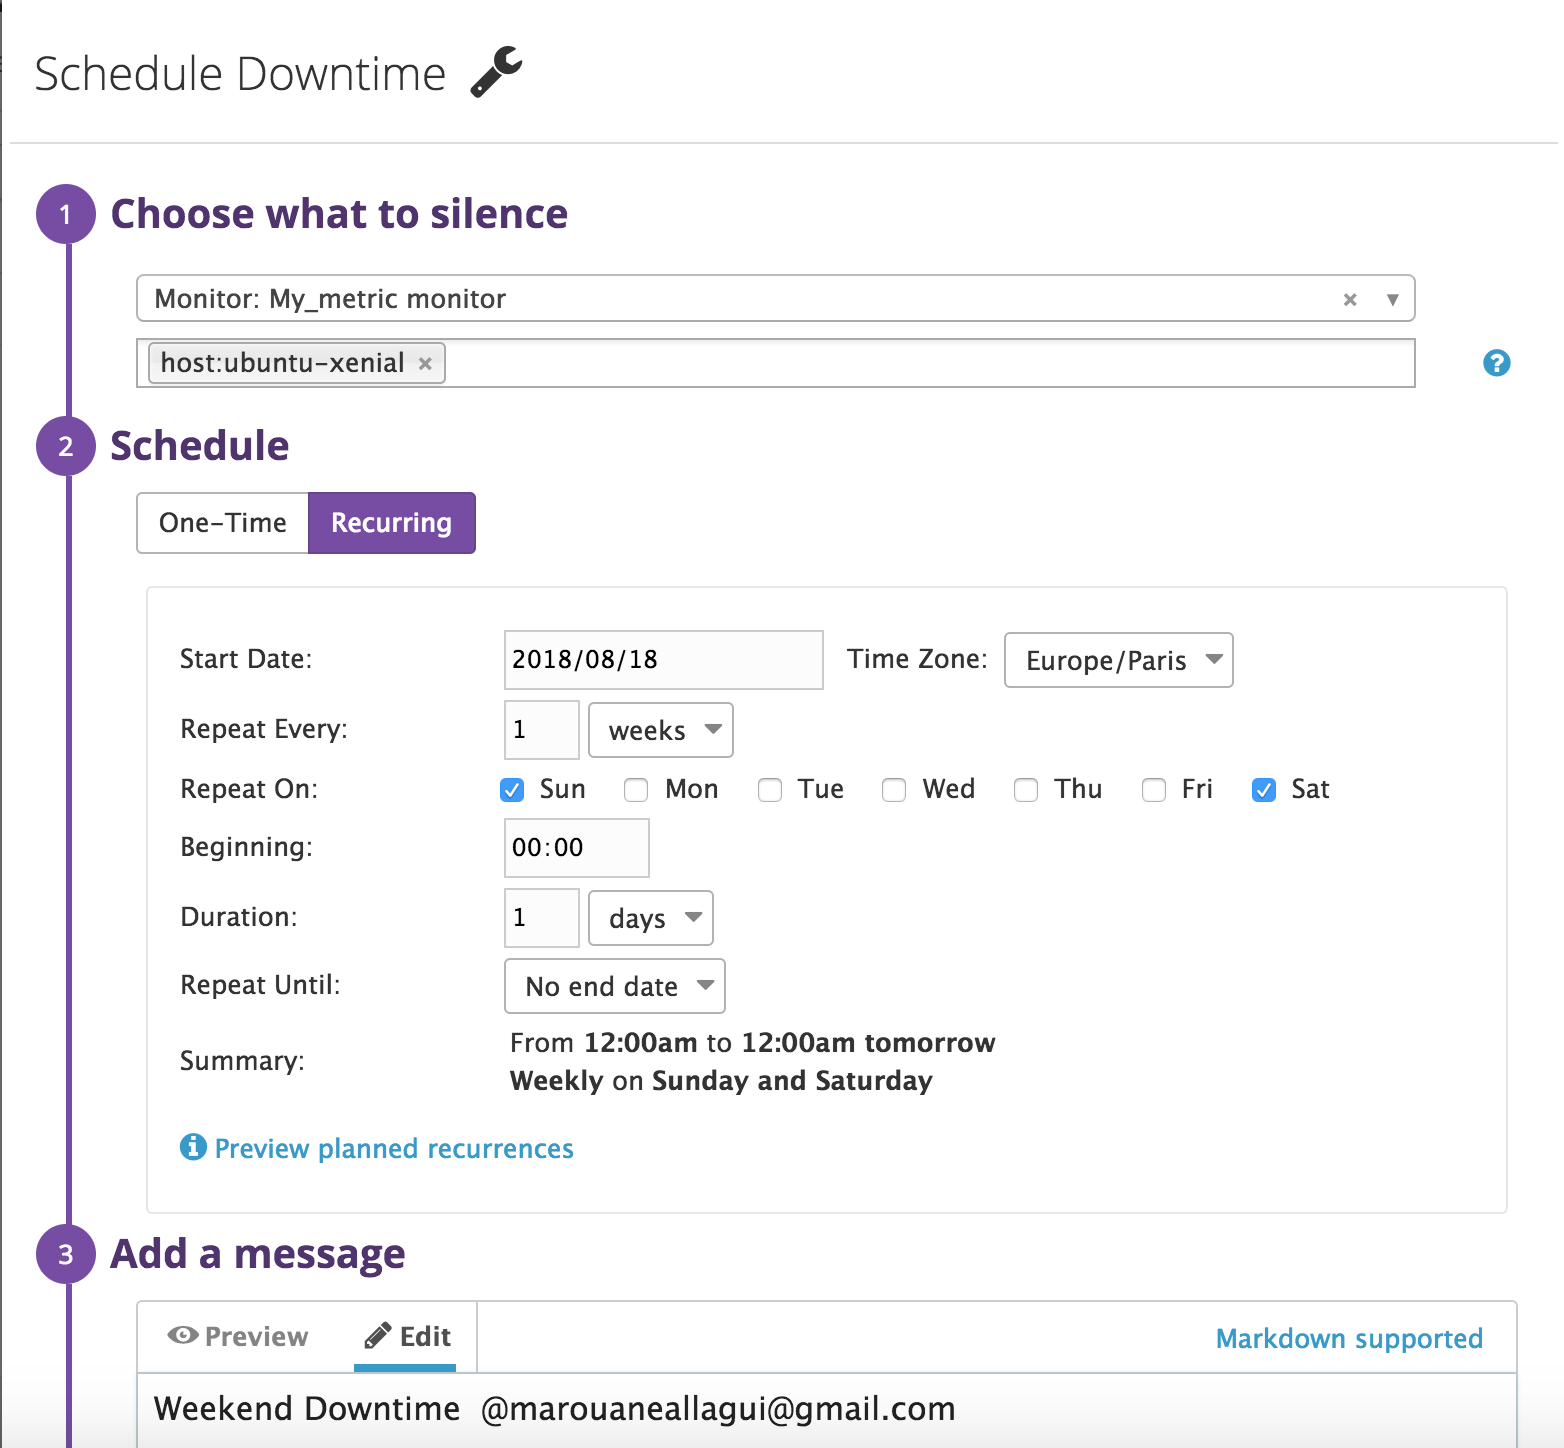
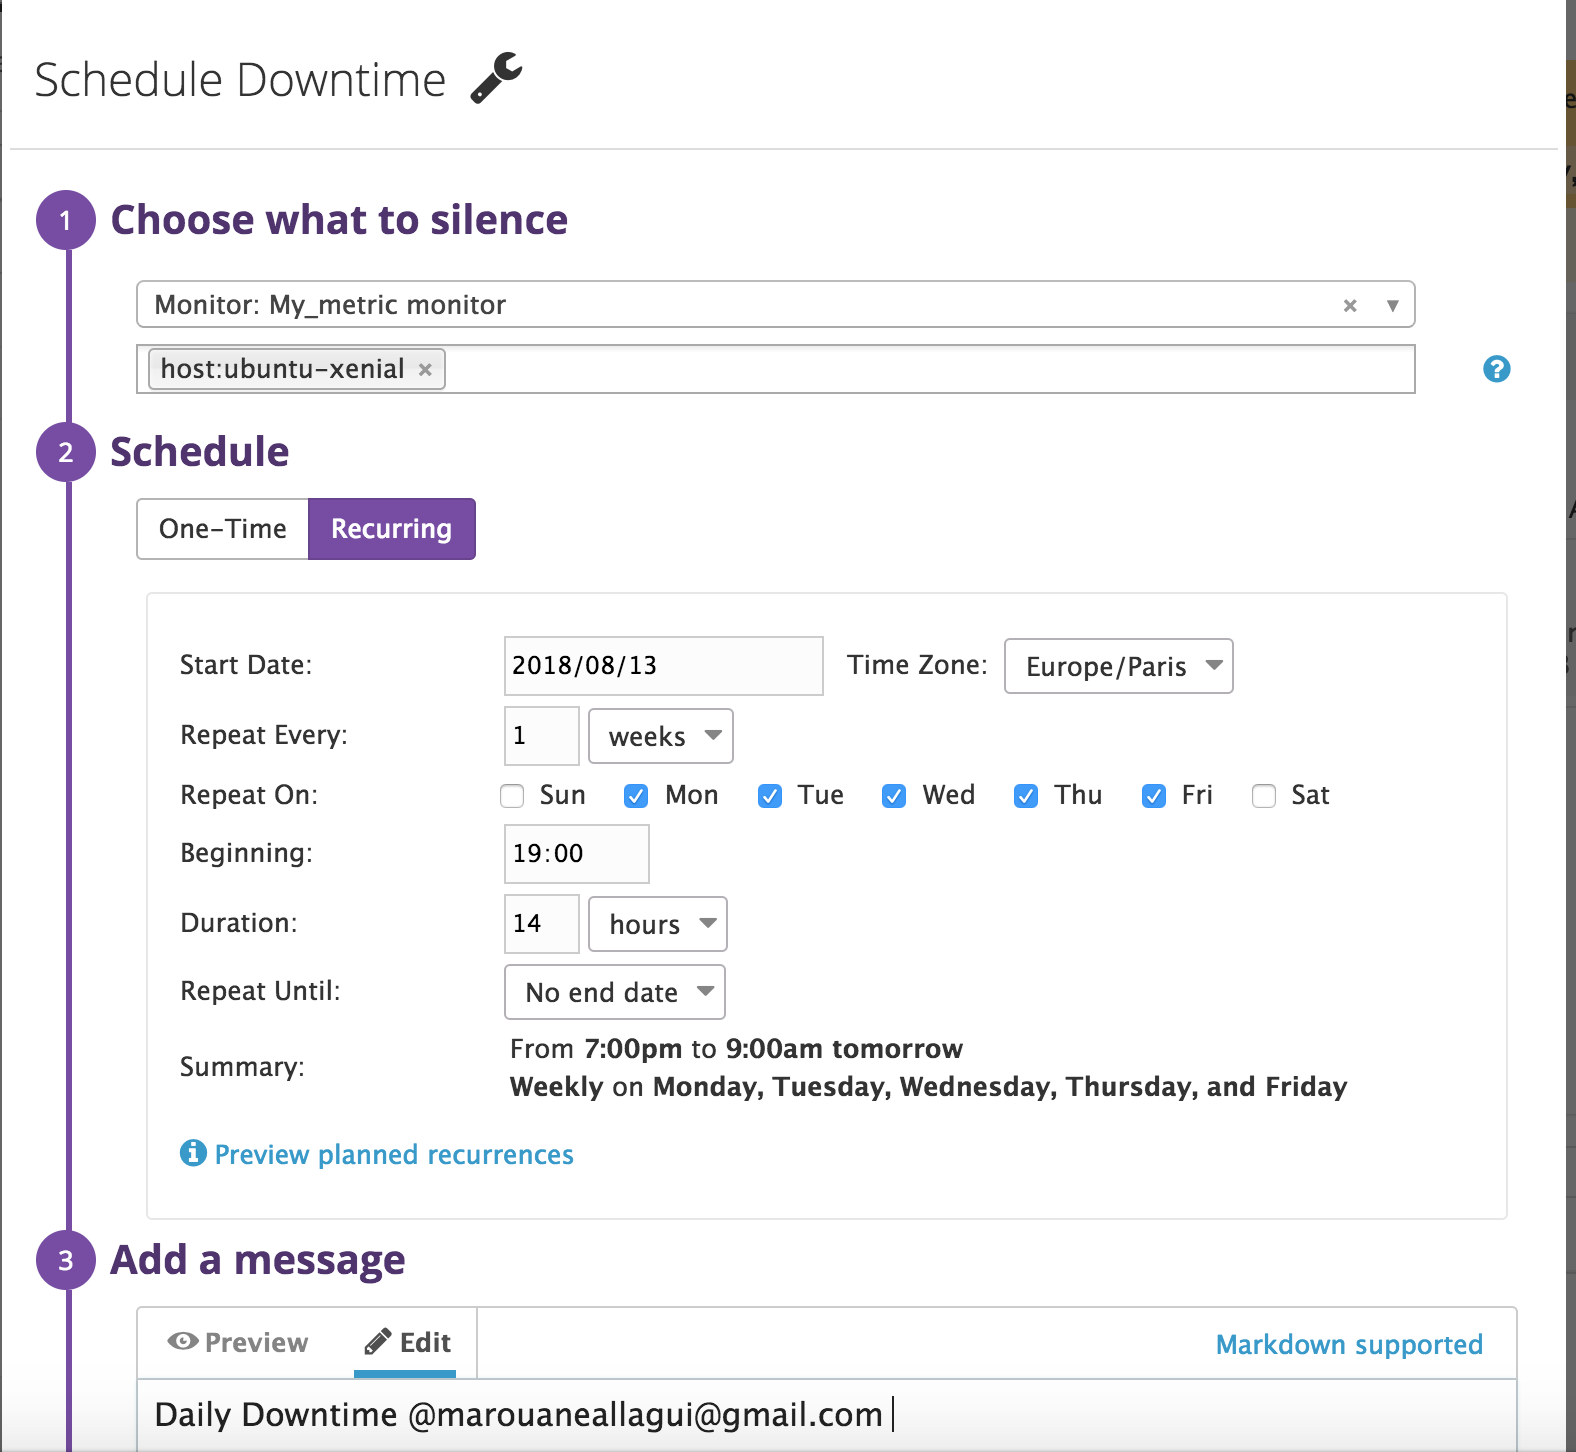
updating my answers

diff --git a/answers.md b/answers.md
@@ -132,18 +132,18 @@ sudo service datadog-agent restart
 
 # Visualizing Data
 
-To create a Timeboard using datadog api, 
+* To create a Timeboard using datadog api, 
 First of all I started by creating the api and app keys:
 
 ![enter image description here](/screenshots/secrets.png)
 
-And then I installed the Datadog python library by following the instructions on the Datadog python github: https://github.com/DataDog/datadogpy
+  * And then I installed the Datadog python library by following the instructions on the Datadog python github: https://github.com/DataDog/datadogpy
 
 ```
 pip install datadog
 ```
 
-Secondly I fellowed instructions from datadog api to create the python script below:
+* Secondly I fellowed instructions from datadog api to create the python script below:
 
 [More information about Datadog API](https://docs.datadoghq.com/api/?lang=python#timeboards)
 
@@ -203,49 +203,45 @@ api.Timeboard.create(title=title,
                      read_only=read_only)
 ```
 
-By executing this script the new Timeboard will be created.
+* By executing this script the new Timeboard will be created.
 
 ![enter image description here](/screenshots/timeboard.png)
 
-To change the timeframe to the past 5 minutes I just select this period of time as described below.
+* To change the timeframe to the past 5 minutes I just select this period of time as described below.
 
 ![enter image description here](/screenshots/5min-timeboard.png)
 ![enter image description here](/screenshots/5min.PNG)
 
-To send a snapshot of mysql anomaly graph to myself I clicked on the camera icon:
+* To send a snapshot of mysql anomaly graph to myself I clicked on the camera icon:
 
 ![enter image description here](/screenshots/snapshot.PNG)
 
-And then tag my email:
+*  And then tag my email:
 
 ![enter image description here](/screenshots/sendtome.PNG)
 
-to receive this email from datadog:
+* I received this email from datadog:
 
 ![enter image description here](/screenshots/notificationscreen.PNG)
 
-**Bonus:** The anomaly graph is displaying metric compared by historical behavior, anomaly detection distinguishes between normal and abnormal metric trends. using [*Anomaly Detection Algorithms*](https://docs.datadoghq.com/monitors/monitor_types/anomaly/#anomaly-detection-algorithms).
+**Bonus:** The anomaly graph is displaying metric compared by historical behavior, anomaly detection distinguishes between normal and abnormal metric trends. using [Anomaly Detection Algorithms](https://docs.datadoghq.com/monitors/monitor_types/anomaly/#anomaly-detection-algorithms).
 
 # Monitoring Data
 
-- Create a monitor for my_metric it wil push alert if it’s above:
+* Create a monitor for my_metric it wil push alert if it’s above:
 
--Warning threshold of 500
+  * Warning threshold of 500
 
--Alerting threshold of 800
+  * Alerting threshold of 800
 
--notify you if there is No Data for this query over the past 10m.
+    over the past 5 minutes.
 
- over the past 5 minutes.
+  * notify you if there is No Data for this query
+  
+     over the past 10m.
+
+
 ![my_metric monitor](/screenshots/monitor.png)
-
-```
-{{#is_alert}} **Alert!** host-ip: {{host.ip}} , my_metric: {{value}} {{/is_alert}}
-{{#is_warning}} **Warning!** host-ip: {{host.ip}} , my_metric: {{value}} {{/is_warning}}
-{{#is_no_data}}**No Data state!** host-ip: {{host.ip}} , my_metric: {{value}} {{/is_no_data}}
-
-@marouaneallagui@gmail.com
-```
 
 ![enter image description here](/screenshots/notificationtext.png)
 
@@ -256,21 +252,18 @@ to receive this email from datadog:
 - Scheduling weekly downtime:
 
 ![enter image description here](/screenshots/weeklydowntime.png)
-![enter image description here](/screenshots/emailWeekly.png)
 
 - Scheduling weekend downtime:
 
 ![enter image description here](/screenshots/weekenDowntime.png)
 
-- Alert Email:
+- Email Scheduling downtime :
 
-![enter image description here](/screenshots/emailWeekend.png)
-
-
+![enter image description here](/screenshots/emailDowntime.png)
 
 # Collecting APM Data
 
-The APM Agent (also known as Trace Agent) is shipped by default with the Agent 6 in the Linux it will just need to enable it by editing the file `/etc/datadog-agent/datadog.yaml`:
+The APM Agent (also known as Trace Agent) is shipped by default with the Agent 6 in the Linux I will just need to enable it by editing the file `/etc/datadog-agent/datadog.yaml`:
 
 ```yaml
 apm_config:
@@ -278,27 +271,34 @@ apm_config:
   env: test  #trace tag
 ```
 
-Installing datadog trace library:
+* Installing datadog trace library:
 
 ```bash
 pip install ddtrace
-````
-Edit the Flask app by adding: 
+```
+
+* Import the ddtrace in my `app.py` file:
 
 ```python
 from ddtrace import tracer
 from ddtrace.contrib.flask import TraceMiddleware
 ```
 
-And create the tracerobject:
+* Create the trace object:
 
 ```python
 traced_app = TraceMiddleware(app, tracer, service="my-flask-app", distributed_tracing=False)
 ```
+
+* And run the app. 
+
+
 ![enter image description here](/screenshots/FlaskAPM.png)
 ![enter image description here](/screenshots/Flaskapp.png)
 ![enter image description here](/screenshots/APMservice.png)
 
+Please find [*here*](https://p.datadoghq.com/sb/28d01a8f1-b886c7228ff271b31955bad27c554ee2) my public Screenboard.
 
-https://app.datadoghq.com/screen/409257/marouanes-screenboard-13-aug-2018-1623?page=0&is_auto=false&from_ts=1534166700000&to_ts=1534170300000&live=true
+### Final Question
 
+I think that if we can use datadog monitoring in hospitals it will be good idea, to get health measures from sensors and sends alerts to prevent doctors and avoid an illness.
